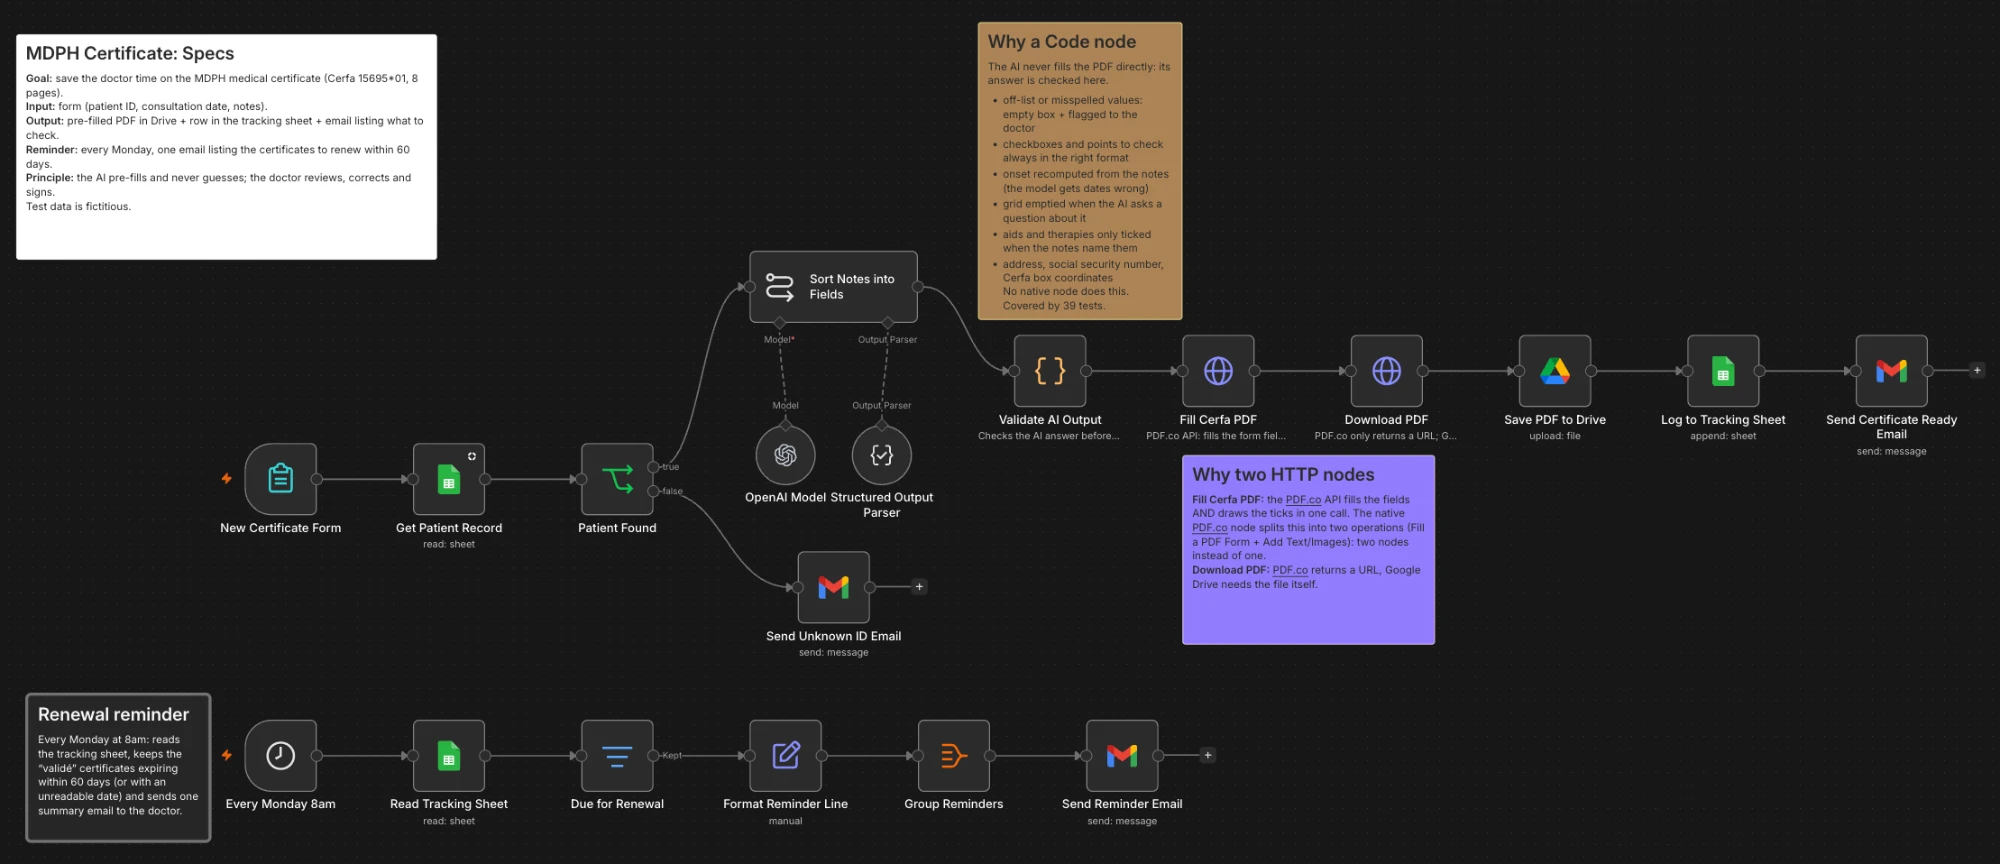
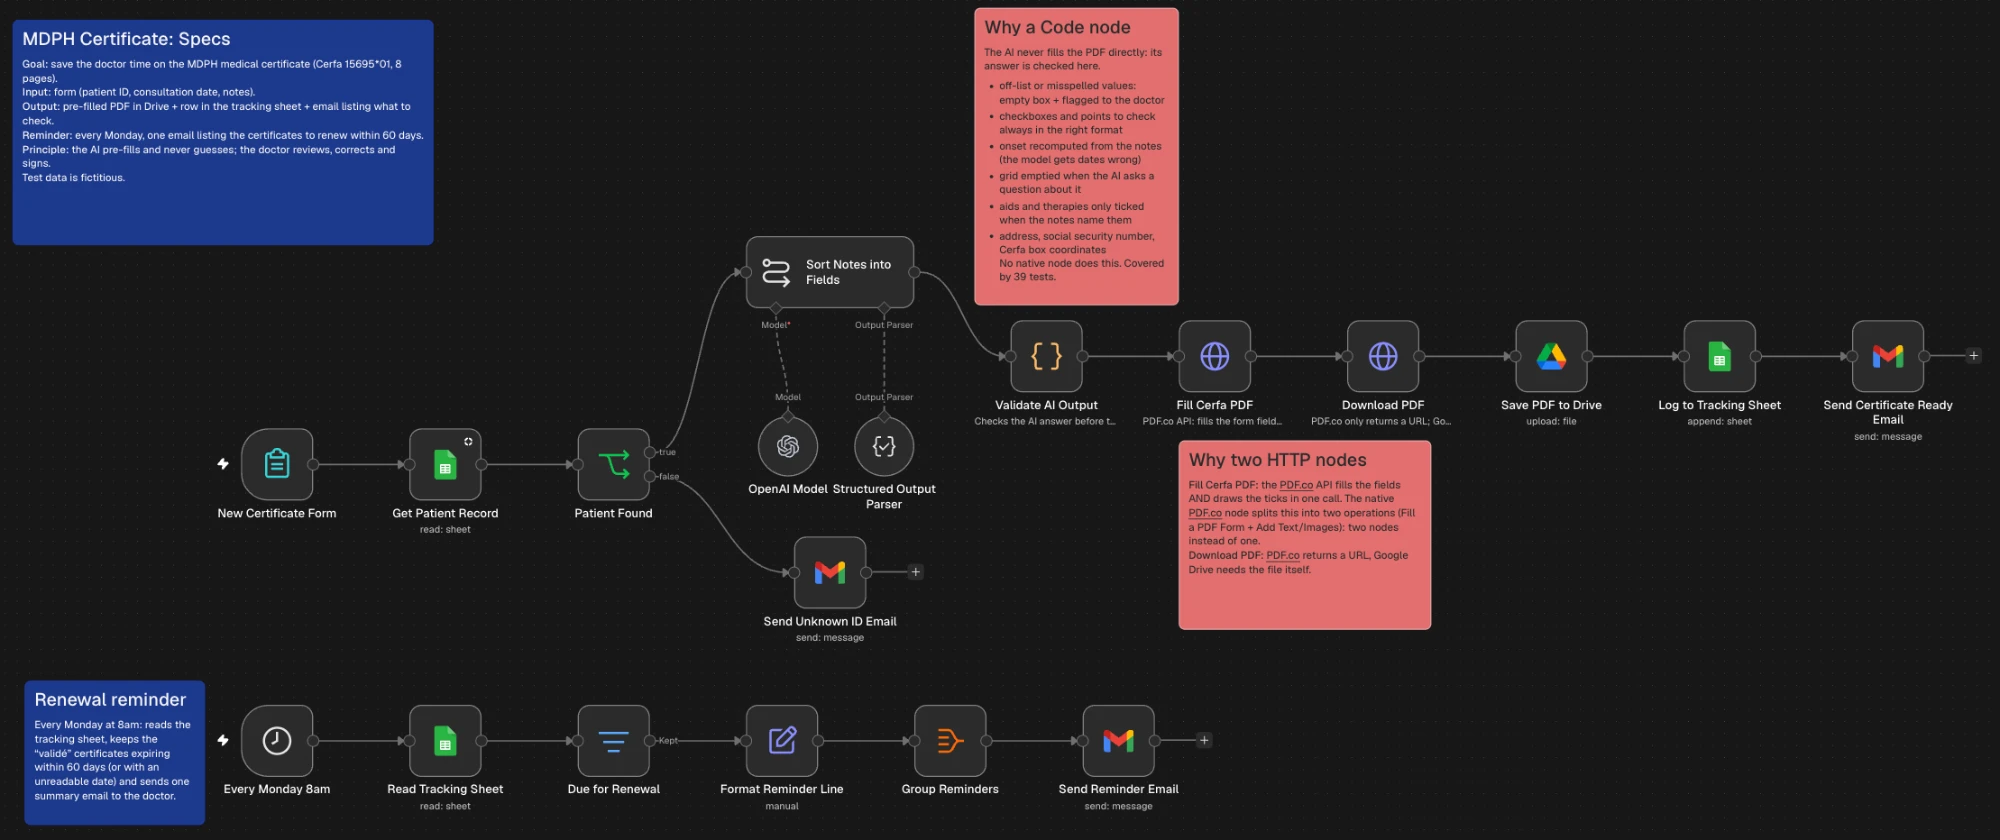
Match sticky note colors with n8n; update workflow screenshot

diff --git a/workflows/MDPH Certificate.workflow.ts b/workflows/MDPH Certificate.workflow.ts
@@ -113,8 +113,8 @@ export default wf
   .to(group_Reminders)
   .to(send_Reminder_Email)
   .add(sticky('## MDPH Certificate: Specs\n\n**Goal:** save the doctor time on the MDPH medical certificate (Cerfa 15695*01, 8 pages).\n**Input:** form (patient ID, consultation date, notes).\n**Output:** pre-filled PDF in Drive + row in the tracking sheet + email listing what to check.\n**Reminder:** every Monday, one email listing the certificates to renew within 60 days.\n**Principle:** the AI pre-fills and never guesses; the doctor reviews, corrects and signs.\nTest data is fictitious.', [], { name: 'Specs', color: 5, width: 560, height: 300, position: [224, 464] }))
-  .add(sticky('## Why a Code node\nThe AI never fills the PDF directly: its answer is checked here.\n- off-list or misspelled values: empty box + flagged to the doctor\n- checkboxes and points to check always in the right format\n- onset recomputed from the notes (the model gets dates wrong)\n- grid emptied when the AI asks a question about it\n- aids and therapies only ticked when the notes name them\n- address, social security number, Cerfa box coordinates\nNo native node does this. Covered by 39 tests.', [], { name: 'Why A Code Node', color: 5, width: 272, height: 396, position: [1504, 448] }))
-  .add(sticky('## Why two HTTP nodes\n**Fill Cerfa PDF:** the PDF.co API fills the fields AND draws the ticks in one call. The native PDF.co node splits this into two operations (Fill a PDF Form + Add Text/Images): two nodes instead of one.\n**Download PDF:** PDF.co returns a URL, Google Drive needs the file itself.', [], { name: 'Why Two HTTP Nodes', color: 5, width: 336, height: 252, position: [1776, 1024] }))
+  .add(sticky('## Why a Code node\nThe AI never fills the PDF directly: its answer is checked here.\n- off-list or misspelled values: empty box + flagged to the doctor\n- checkboxes and points to check always in the right format\n- onset recomputed from the notes (the model gets dates wrong)\n- grid emptied when the AI asks a question about it\n- aids and therapies only ticked when the notes name them\n- address, social security number, Cerfa box coordinates\nNo native node does this. Covered by 39 tests.', [], { name: 'Why A Code Node', color: '#E17070', width: 272, height: 396, position: [1504, 448] }))
+  .add(sticky('## Why two HTTP nodes\n**Fill Cerfa PDF:** the PDF.co API fills the fields AND draws the ticks in one call. The native PDF.co node splits this into two operations (Fill a PDF Form + Add Text/Images): two nodes instead of one.\n**Download PDF:** PDF.co returns a URL, Google Drive needs the file itself.', [], { name: 'Why Two HTTP Nodes', color: '#E17070', width: 336, height: 252, position: [1776, 1024] }))
   .add(sticky('## Renewal reminder\nEvery Monday at 8am: reads the tracking sheet, keeps the "validé" certificates expiring within 60 days (or with an unreadable date) and sends one summary email to the doctor.', [], { name: 'Renewal Reminder', color: 5, height: 192, position: [240, 1344] }))
   .add(new_Certificate_Form)
   .to(get_Patient_Record)
